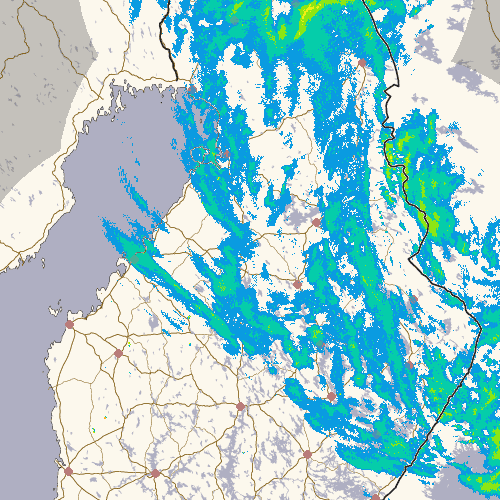
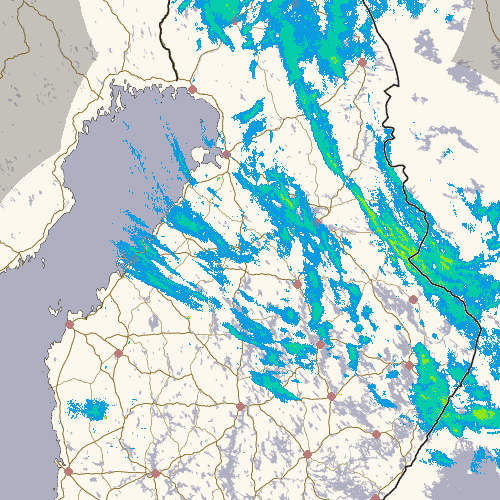
too many changes

diff --git a/rbgvalue.py b/rbgvalue.py
@@ -1,45 +1,72 @@
-from difflib import restore
+import string
 from PIL import Image
 import requests
+from datetime import datetime, timedelta
 
-def rgb_of_pixel(picuture, x, y):
-    im = Image.open(picuture).convert('RGB')
-    r, g, b = im.getpixel((x, y))
+
+def getURL():
+    lastHourDateTime = datetime.now() - timedelta(hours = 2)
+    stringDate = str(lastHourDateTime)
+    print(stringDate)
+    stringDate = stringDate.split(".")[0][:-3].replace("-", "").replace(" ", "").replace(":", "")
+    print(stringDate)
+    print(stringDate[-2:])
+
+    if int(stringDate[-2:]) < 19 and int(stringDate[-2:]) > 4: # New forecast/picture comes 4 minutes late
+        stringDate = stringDate[:-2] + "00"
+    elif int(stringDate[-2:]) < 34 and int(stringDate[-2:]) >= 19:
+        stringDate = stringDate[:-2] + "15"
+    elif int(stringDate[-2:]) < 49 and int(stringDate[-2:]) >= 34:
+        stringDate = stringDate[:-2] + "30"
+    elif int(stringDate[-2:]) >= 49:
+        stringDate = stringDate[:-2] + "45"
+
+    URL = "https://cdn.fmi.fi/weather-radar/observations/flash/keski-suomi_500x500/HAV_" + stringDate + "_DBZ.png"
+    print(URL)
+
+    print(stringDate)
+    return URL
+
+
+def rgbOfPixel(picuture, x, y):
+    pic = Image.open(picuture).convert('RGB')
+    r, g, b = pic.getpixel((x, y))
     a = (r, g, b)
     return a
 
 
-def getPicture():
-    pic = requests.get("https://cdn.fmi.fi/weather-radar/observations/flash/keski-suomi_500x500/HAV_202202180730_DBZ.png")
+def getPicture(URL):
+    pic = requests.get(URL)
     file = open("sample_image.png", "wb")
     file.write(pic.content)
     file.close()
-    return "sample_image.png"
 
 
 def analyzeResults(results):
-    sadealue = []
-    varitPallossa = {"heikkoa sadetta": (74, 143, 186), "kohtalaista sadetta": (71, 175, 152), "ei sadetta": (185, 124, 122)}
+    rainArea = []
+    colorsAlppila = {"heikkoa sadetta": (74, 143, 186), "kohtalaista sadetta": (71, 175, 152), "ei sadetta": (185, 124, 122)}
     
     for i in results:
-        for k, v in varitPallossa.items():
+        for k, v in colorsAlppila.items():
             if i == v:
-                sadealue.append(k)
+                rainArea.append(k)
 
-    mostFreq = (max(set(sadealue), key = sadealue.count))
+    mostFreq = (max(set(rainArea), key = rainArea.count))
     return mostFreq
 
 
 def getRGB():
-    AlppilaCoords = [(225, 150), (225, 151), (225, 152), (226, 150), (226, 151), (226, 152), (227, 150), (227, 151), (227, 152)]
+    alppilaCoords = [(225, 150), (225, 151), (225, 152), (226, 150), (226, 151), (226, 152), (227, 150), (227, 151), (227, 152)]
     results = []
-    for i in AlppilaCoords:
-        rgb = rgb_of_pixel(getPicture(), i[0], i[1])
-        #print(rgb)
+    for i in alppilaCoords:
+        rgb = rgbOfPixel("sample_image.png", i[0], i[1])
+        print(rgb)
         results.append(rgb)
     return results
+
+getPicture(getURL())
 results = getRGB()
 print(analyzeResults(results))
 
 
-varitPalkissa = [(0, 118, 200), (6, 193, 162), (107, 176, 15), (182, 182, 12), (196, 154, 0), (182, 18, 0), (182, 23, 12)] # Heikosta rankkaan
+colorsBar = [(0, 118, 200), (6, 193, 162), (107, 176, 15), (182, 182, 12), (196, 154, 0), (182, 18, 0), (182, 23, 12)] # Heikosta rankkaan
